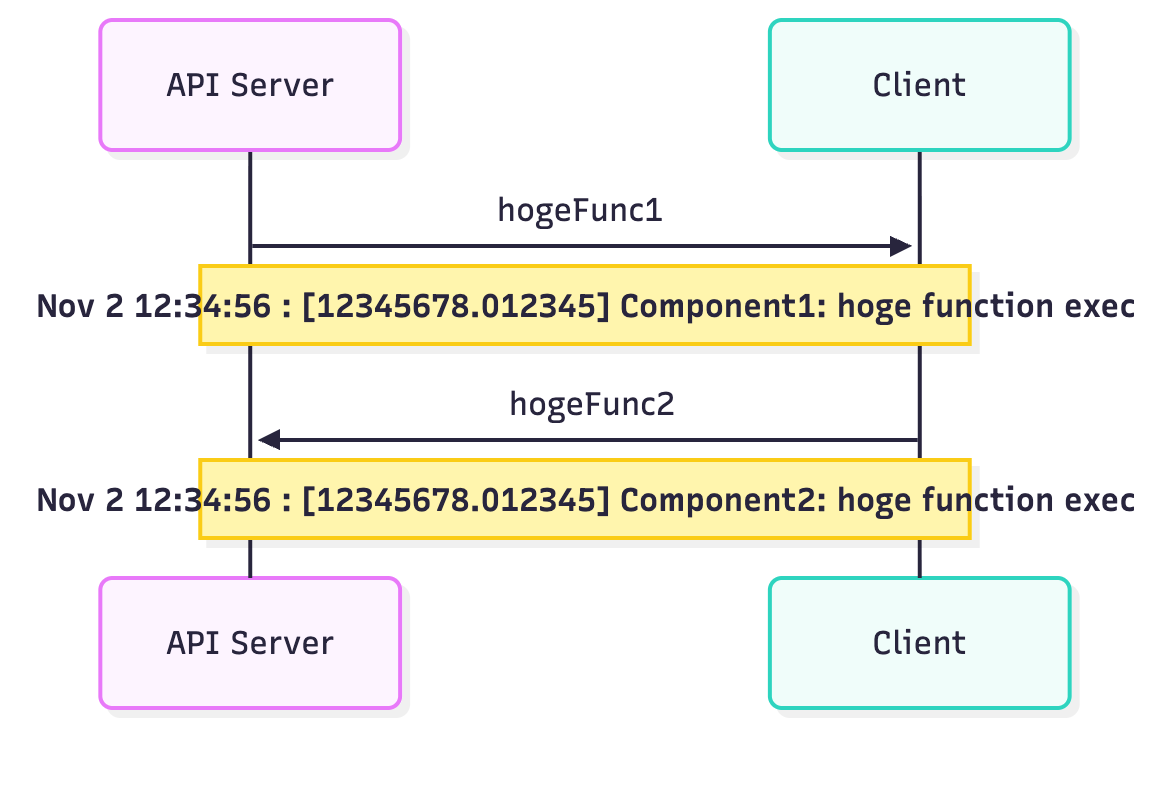
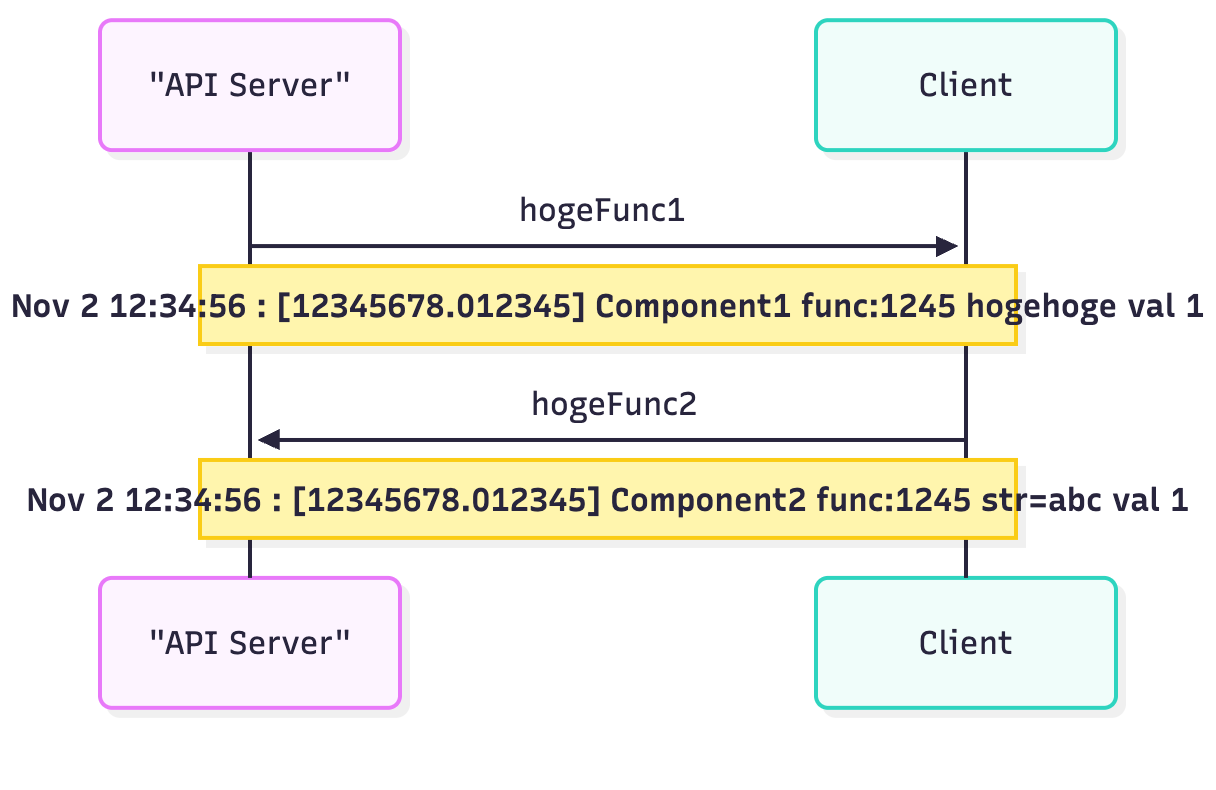
matchの正規表現対応

diff --git a/log2mermaid.py b/log2mermaid.py
@@ -31,7 +31,7 @@ def main() -> None:
     log_file = sys.argv[1]
     conv_file = sys.argv[2]
 
-    # マッピングの読み込み
+    # マッピングの読み込み（match は正規表現として扱う）
     try:
         with open(conv_file, 'r', encoding='utf-8', newline='') as f:
             reader = csv.DictReader(f)
@@ -48,7 +48,12 @@ def main() -> None:
                 src = (r.get('src') or '').strip()
                 dst = (r.get('dst') or '').strip()
                 if title and word and src and dst:
-                    conv_list.append({'title': title, 'match': word, 'src': src, 'dst': dst})
+                    try:
+                        pat = re.compile(word)
+                    except re.error as e:
+                        print(f"Error: invalid regex in match: {word} ({e})", file=sys.stderr)
+                        sys.exit(2)
+                    conv_list.append({'title': title, 'pattern': pat, 'src': src, 'dst': dst})
     except FileNotFoundError:
         print(f'Error: CSV not found: {conv_file}', file=sys.stderr)
         sys.exit(2)
@@ -64,7 +69,7 @@ def main() -> None:
         with open(log_file, 'r', encoding='utf-8', errors='replace') as f:
             for line in f:
                 for c in conv_list:
-                    if c['match'] in line:
+                    if c['pattern'].search(line):
                         src = c['src']
                         dst = c['dst']
                         if src not in seen:

diff --git a/README.md b/README.md
@@ -20,12 +20,13 @@ Sample
 CSV format
 
 - Required columns: `title`, `match`, `src`, `dst`
-- Example:
-  | title | match | src | dst |
-  | ---- | ---- | ---- | ---- |
-  | hogeFunc1 | Component1: hoge function exec | Comp1 | Comp2 |
-  | hogeFunc2 | Component2: hoge function exec | Comp2 | Comp1 |
-- For details, see `example/match.csv`.
+- `match` is a regular expression (Python `re.search`) applied to each log line.
+- Example (same as example/match.csv):
+
+  | title     | match                      | src        | dst         |
+  | ----      | ----                       | ----       | ----        |
+  | hogeFunc1 | Component1 func:           | API Server | Client      |
+  | hogeFunc2 | Component2 func:.* str=abc | Client     | API Server  |
 
 Notes
 

diff --git a/README.ja.md b/README.ja.md
@@ -20,13 +20,12 @@ python3 log2mermaid.py LOG_FILE MATCH_CSV > diagram.mmd
 CSVフォーマット
 
 - 必須カラム: `title`, `match`, `src`, `dst`
-- 例:
+- `match` は正規表現（Pythonの `re.search` で各ログ行に適用）
+- 例（example/match.csv と同じ）:
   | title | match | src | dst |
   | ---- | ---- | ---- | ---- |
-  | hogeFunc1 | Component1: hoge function exec | Comp1 | Comp2 |
-  | hogeFunc2 | Component2: hoge function exec | Comp2 | Comp1 |
-- 詳しくはexample内にあるmatch.csvを参照してください。
-
+  | hogeFunc1 | Component1 func: | API Server | Client |
+  | hogeFunc2 | Component2 func:.* str=abc | Client | API Server |
 
 注意事項
 
